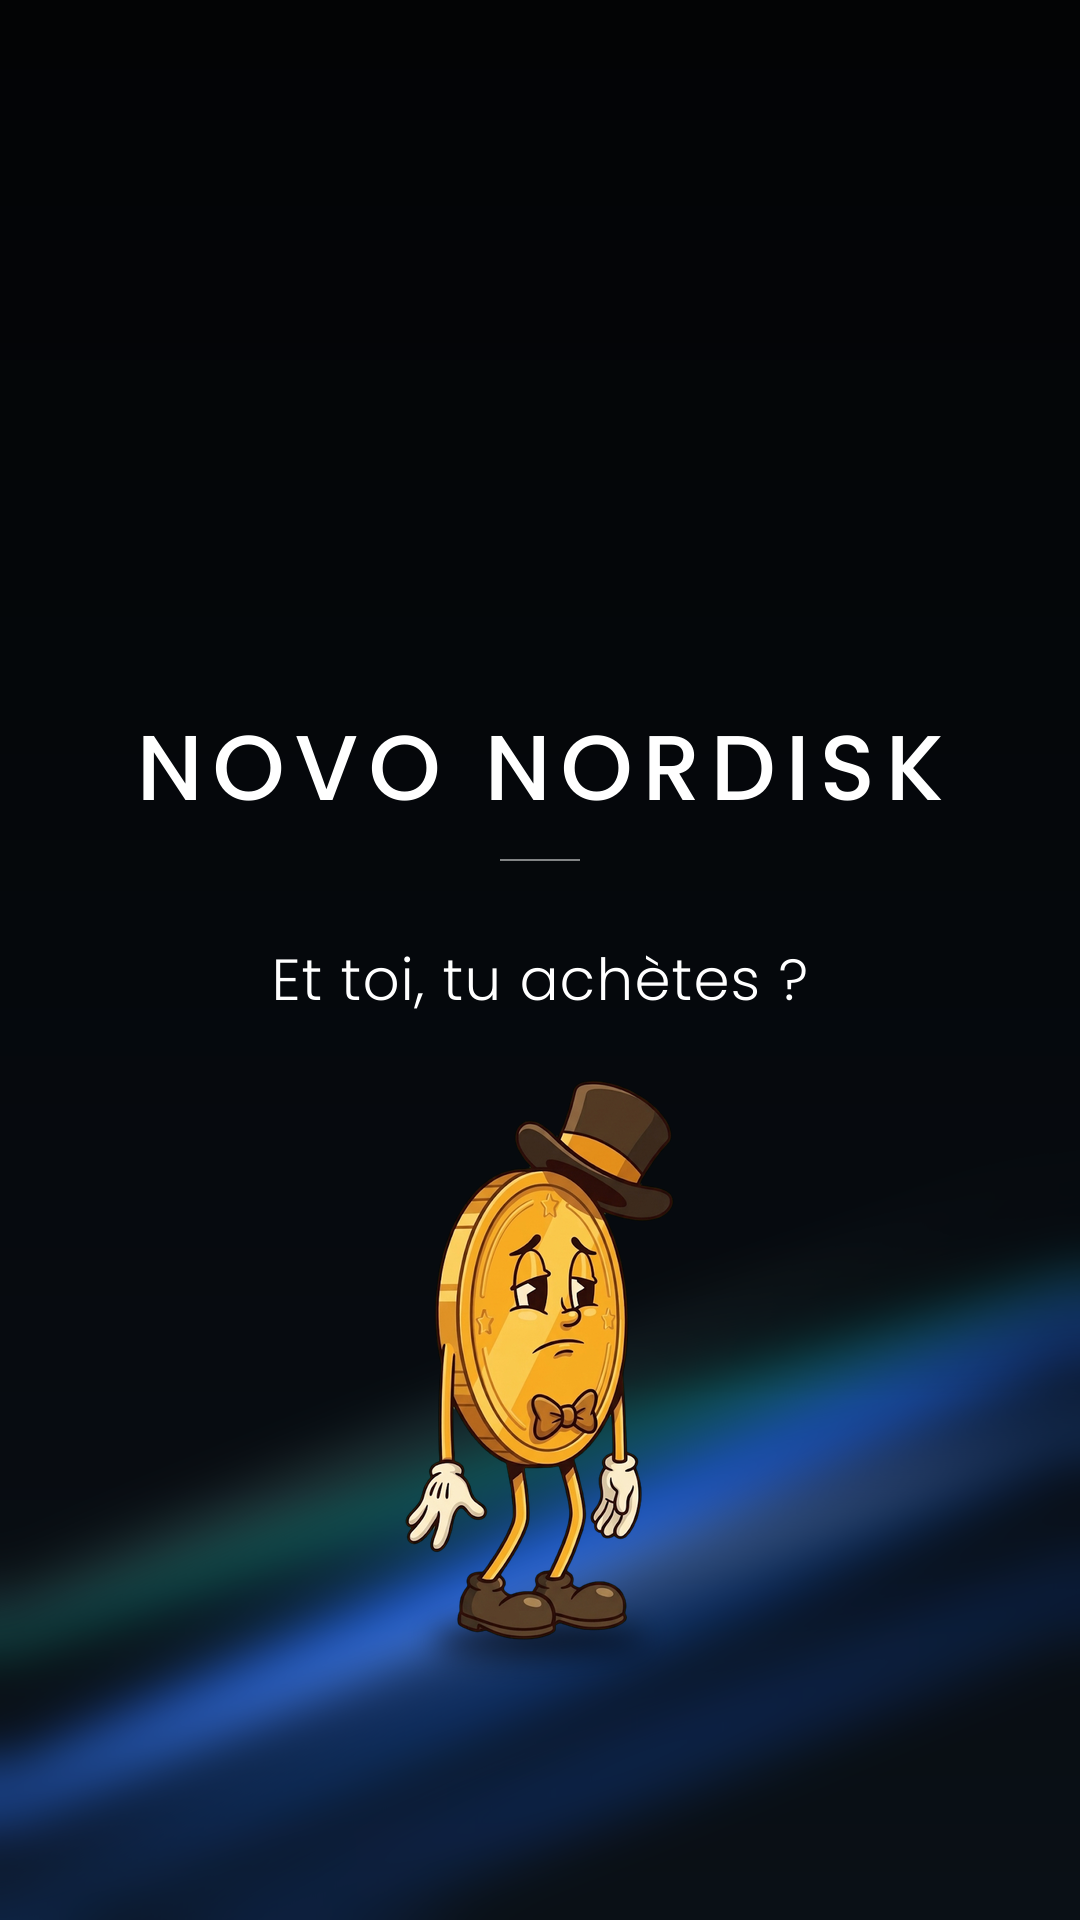
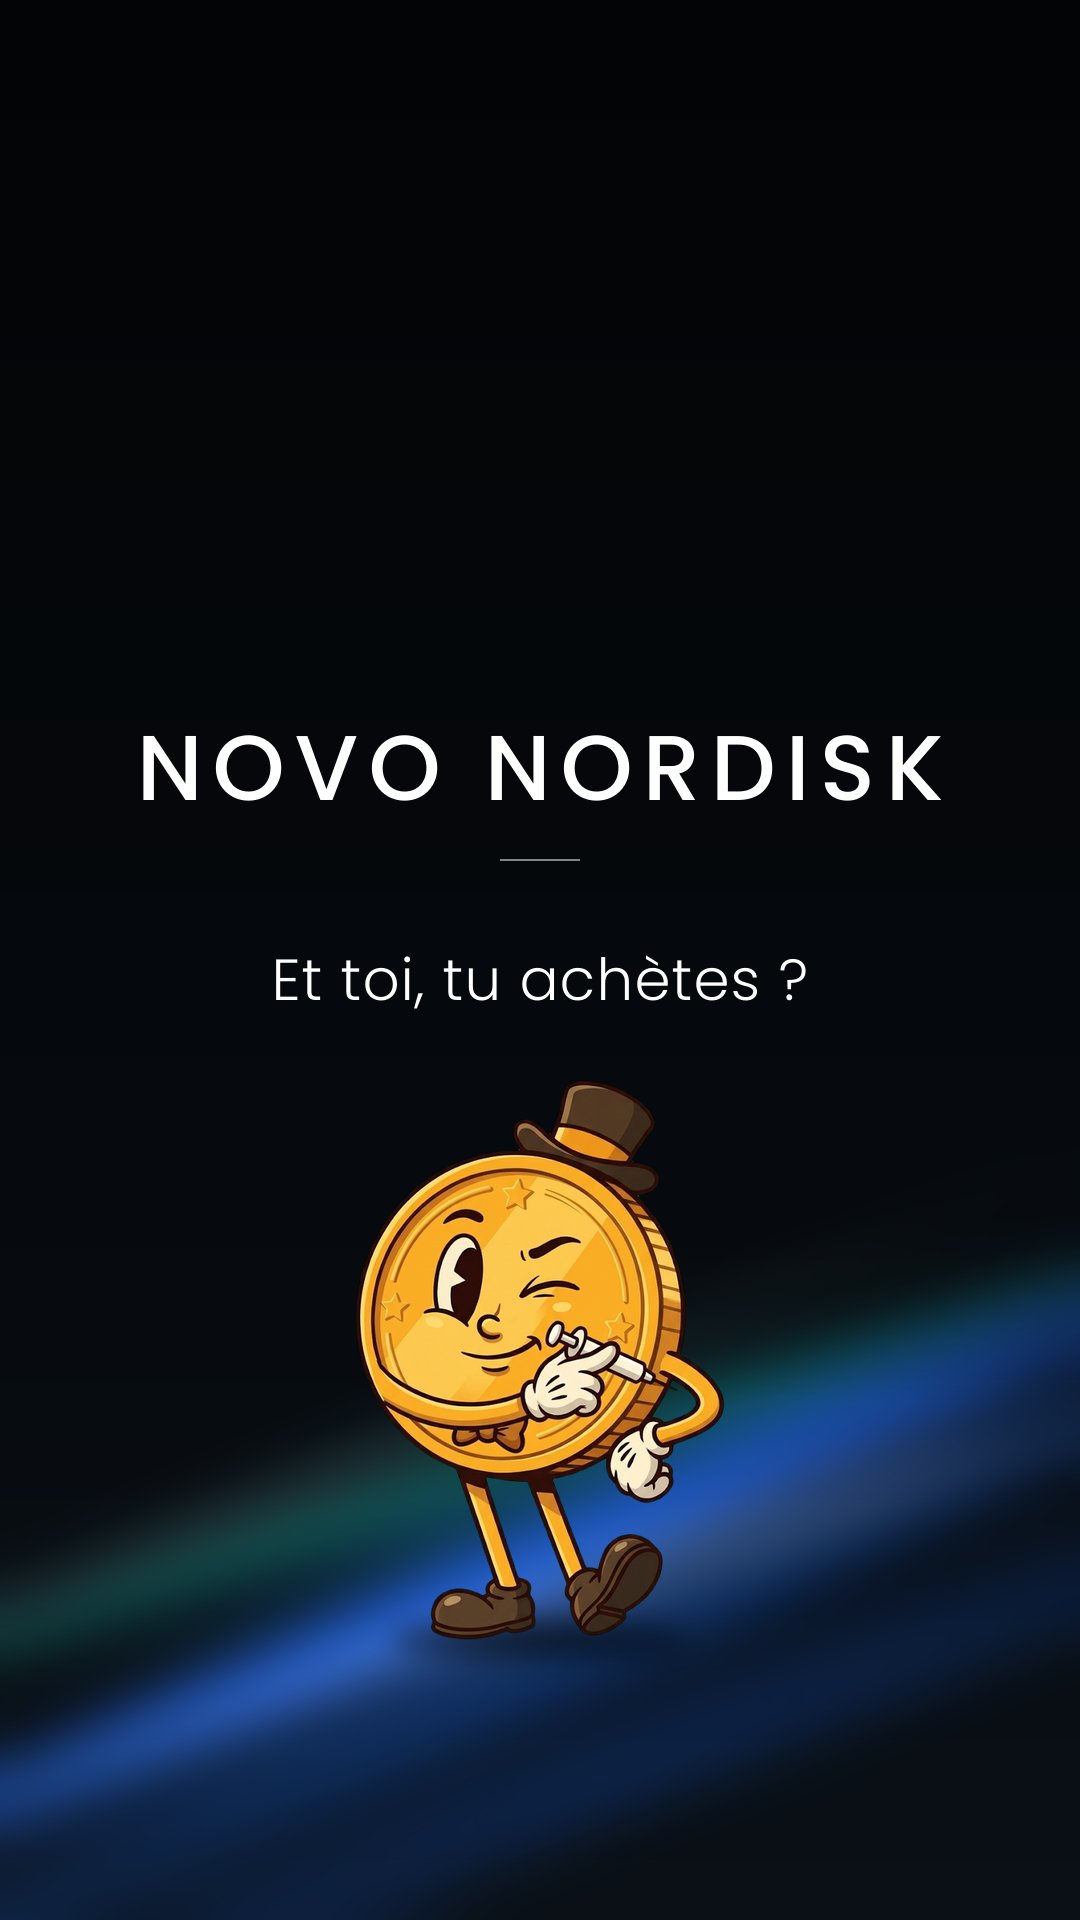
Novo Nordisk v2 : plus de déformation de Mister Coin, poses gros/mince continues, mouvements calmés, écrans corrigés, couverture au stylo
Claude-Session: https://claude.ai/code/session_01VFT2ZKYV9NwmFvCsfcTKi7

Changed region(s): [[0.3361, 0.5625, 0.6722, 0.875]]

diff --git a/episodes/2026-10-25_novo_nordisk/decor_anim.py b/episodes/2026-10-25_novo_nordisk/decor_anim.py
@@ -140,11 +140,8 @@ def labo(t):
 
 # ---------- salle de contrôle : voyants du pupitre (l'écran est dessiné par video.py) ----------
 def controle(t):
-    im = decor('controle').convert('RGBA')
-    m, blocks = teal_blocks_console()
-    ph = np.sin(t*3.2+blocks*2.1); g = np.where(m, np.clip(ph, 0, 1)*60, 0).astype(np.float32)
-    a = np.asarray(im).astype(np.float32); a[..., :3] += g[..., None]*np.array([.4, 1, 1])
-    return Image.fromarray(np.clip(a, 0, 255).astype(np.uint8))
+    """salle de contrôle : décor fixe, l'animation est sur le grand écran (dessiné par video.py)"""
+    return decor('controle').convert('RGBA')
 @functools.lru_cache(maxsize=1)
 def teal_blocks_console():
     a = np.asarray(decor('controle')).astype(np.int32); R, G, B = a[..., 0], a[..., 1], a[..., 2]
@@ -154,21 +151,19 @@ def teal_blocks_console():
 SCREEN = (215, 495, 1040, 905)
 
 # ---------- salle d'essais : tracés de mesure sur les moniteurs ----------
-MONITORS = [(4, 828, 58, 940), (156, 816, 214, 872), (234, 806, 288, 856), (326, 778, 404, 856)]
+MONITORS = [[(156, 818), (205, 815), (217, 873), (168, 875)], [(235, 806), (279, 805), (288, 856), (247, 858)],
+            [(324, 779), (392, 781), (406, 857), (336, 860)]]
 def essais(t, alarm=0.0):
     im = decor('essais').convert('RGBA'); lay = Image.new('RGBA', (W, H), 0); d = ImageDraw.Draw(lay)
-    col = tuple(int(a+(b-a)*alarm) for a, b in zip((20, 160, 150), (215, 50, 50)))
-    for k, (x0, y0, x1, y1) in enumerate(MONITORS):
-        d.rectangle((x0, y0, x1, y1), fill=(225, 245, 245, 255))
-        w, h = x1-x0, y1-y0; pts = []
-        for i in range(60):
-            u = i/59; x = x0+u*w; ph = (u*2.2-t*(1.1+.3*k)) % 1
-            spike = math.exp(-((ph-.5)/.025)**2)*(.9 if k % 2 == 0 else .5)-math.exp(-((ph-.56)/.02)**2)*.35
-            y = y0+h*(.62-.42*spike+.03*math.sin(u*30+t*5))
-            pts.append((x, y))
-        d.line(pts, fill=col+(255,), width=2)
-        if k == 3:                                             # barres de résultats qui montent
-            for j in range(4):
-                bh = (h*.35)*(.4+.6*abs(math.sin(t*.9+j)))*(1-.6*alarm)
-                d.rectangle((x0+6+j*16, y1-6-bh, x0+16+j*16, y1-6), fill=col+(200,))
-    im.alpha_composite(lay); blink(im, t, 'essais'); return im
+    col = tuple(int(a+(b-a)*alarm) for a, b in zip((10, 120, 115), (210, 40, 40)))
+    mask = Image.new('L', (W, H), 0); dm = ImageDraw.Draw(mask)
+    for k, q in enumerate(MONITORS):
+        dm.polygon(q, fill=255)
+        (x0, y0), (x1, _), (_, y1) = q[0], q[1], q[2]; w, h = x1-x0, y1-y0; pts = []
+        for i in range(50):
+            u = i/49; x = x0+u*w+(q[3][0]-x0)*.5; ph = (u*2.0-t*(1.0+.25*k)) % 1
+            spike = math.exp(-((ph-.5)/.03)**2)-.35*math.exp(-((ph-.57)/.025)**2)
+            pts.append((x, y0+h*(.6-.38*spike)))
+        d.line(pts, fill=col+(235,), width=2)
+    lay.putalpha(Image.fromarray(np.minimum(np.asarray(lay.getchannel('A')), np.asarray(mask.filter(ImageFilter.MinFilter(5))))))
+    im.alpha_composite(lay); return im

diff --git a/episodes/2026-10-25_novo_nordisk/video.py b/episodes/2026-10-25_novo_nordisk/video.py
@@ -170,17 +170,14 @@ def largeur(t):
         u = (t-T['auregime'])/.7; return lerp(1.32, .58, inout(u))-.06*math.sin(math.pi*u)
     return .58
 PLACES = {'labo': (560, 1655, .30), 'prod': (790, 1655, .30, True), 'ctrl': (300, 1665, .30), 'ess': (790, 1665, .30, True), 'ctrl2': (300, 1665, .30)}
+# Mister Coin ne se déforme plus : il passe aux dessins « gros » puis « mince » et y reste (une seule silhouette par séquence)
 ACTIONS = [(5.83, 6.23, 'ravi'), (9.4, 10.4, 'point'), (15.81, 16.4, 'ravi'), (20.4, 21.4, 'thumb'), (22.76, 23.16, 'ravi'),
-           (24.12, 24.39, 'gros'), (27.36, 27.84, 'gros'), (31.43, 31.88, 'gros'), (34.11, 34.72, 'gros'),
-           (36.10, 36.48, 'pique'), (37.03, 37.44, 'mince'), (37.44, 40.79, 'souci'), (40.81, 41.35, 'mince'), (41.68, 42.35, 'mince'),
-           (42.35, 44.49, 'souci'), (44.51, 44.84, 'mince'), (44.84, 46.88, 'souci'), (46.9, 47.48, 'mince_abattu'), (47.48, 49.83, 'souci'),
-           (49.85, 50.22, 'mince'), (50.22, 52.27, 'souci'), (52.29, 52.83, 'mince_abattu'), (52.83, 55.81, 'souci'), (55.83, 56.4, 'mince'),
-           (56.4, 59.50, 'souci'), (59.52, 60.05, 'mince_abattu'), (63.4, 64.4, 'point'), (66.28, 66.58, 'mince'), (68.7, 69.7, 'point'),
-           (70.84, 71.39, 'mince'), (71.5, 72.5, 'point'), (74.47, 75.01, 'mince'), (76.76, 77.32, 'mince'), (78.76, 79.1, 'mince'),
-           (79.1, 80.09, 'souci'), (80.11, 80.65, 'mince_abattu'), (82.85, 84.0, 'mince_abattu')]
+           (27.36, 36.10, 'gros'), (36.10, 36.80, 'pique'), (36.80, 46.9, 'mince'), (46.9, 47.48, 'mince_abattu'), (47.48, 52.29, 'mince'),
+           (52.29, 52.83, 'mince_abattu'), (52.83, 59.52, 'mince'), (59.52, 60.05, 'mince_abattu'), (60.05, 80.11, 'mince'),
+           (80.11, 84.0, 'mince_abattu')]
 SCN = [(0, 'labo'), (T['ruee'], 'prod'), (T['regime'], 'ctrl'), (T['pourquoi'], 'ess'), (T['pourtant'], 'ctrl2')]
-MC = MisterCoin(VOICE, PLACES, 'labo', actions=ACTIONS, largeur=largeur,
-                sauts_de_place=[(a-.25, p) for a, p in SCN[1:]], coucous=[(.1, 1.8)], petits_sauts=[T['moy']+.1, T['ruee']+.05],
+MC = MisterCoin(VOICE, PLACES, 'labo', actions=ACTIONS,
+                sauts_de_place=[(a-.25, p) for a, p in SCN[1:]], coucous=[(.1, 1.8)], petits_sauts=[T['moy']+.1],
                 bulles=[(T['danemark']+.1, T['danemark']+2.0, "Je me sens à l'étroit…", 'gauche'),
                         (T['lilly2']+.05, T['lilly2']+1.9, "Même pas jaloux…", 'gauche'),
                         (T['onze']+.05, T['onze']+1.6, "C'est les soldes ?", 'droite')])

diff --git a/episodes/2026-10-25_novo_nordisk/couverture.py b/episodes/2026-10-25_novo_nordisk/couverture.py
@@ -22,7 +22,7 @@ for slot, name in ((False, 'couverture.png'), (True, 'couverture_emplacement_log
     path = f'{HERE}/{name}'; cards.card("NOVO NORDISK", slot, path)
     if slot: continue
     import rig
-    im = Image.open(path).convert('RGBA'); ch = rig.character('mince_abattu', 0, False, 0, 0, 0); ch = ch.crop(ch.getbbox())
+    im = Image.open(path).convert('RGBA'); ch = rig.character('pique', 0, False, 0, 0, 0); ch = ch.crop(ch.getbbox())
     h = 560; ch = ch.resize((int(ch.width*h/ch.height), h), Image.LANCZOS); cx, feet = 540, 1640
     sh = Image.new('L', (W, H), 0); ImageDraw.Draw(sh).ellipse((cx-ch.width*.4, feet-16, cx+ch.width*.4, feet+14), fill=170)
     im.paste((0, 0, 0, 255), (0, 0), sh.filter(ImageFilter.GaussianBlur(14)))

diff --git a/mister_coin/mister_coin.py b/mister_coin/mister_coin.py
@@ -162,8 +162,8 @@ class MisterCoin:
         sit = max([fade(t, a, b, .2) for a, b in self.assis]+[0])
         dance = max([fade(t, a, b, .2) for a, b in self.danses]+[0])
         legA = 3*math.sin(TAU*t/3.2); legB = -3*math.sin(TAU*t/3.2+.6)
-        bob = 9*lv*(1-math.cos(TAU*t*1.35))/2
-        rot = 1.8*math.sin(TAU*t/3.4)+1.6*lv*math.sin(TAU*t/1.5)+tilt*(1-2*(mir > .5))
+        bob = 6*lv*(1-math.cos(TAU*t*1.35))/2
+        rot = 1.1*math.sin(TAU*t/3.4)+.7*lv*math.sin(TAU*t/1.5)+tilt*(1-2*(mir > .5))
         ph = TAU*1.8*t
         legA += wk*20*math.sin(ph); legB -= wk*20*math.sin(ph); bob += wk*20*(1-math.cos(2*ph))/2; rot += wk*3*math.sin(ph)
         rot += dance*7*math.sin(TAU*t/.62)
